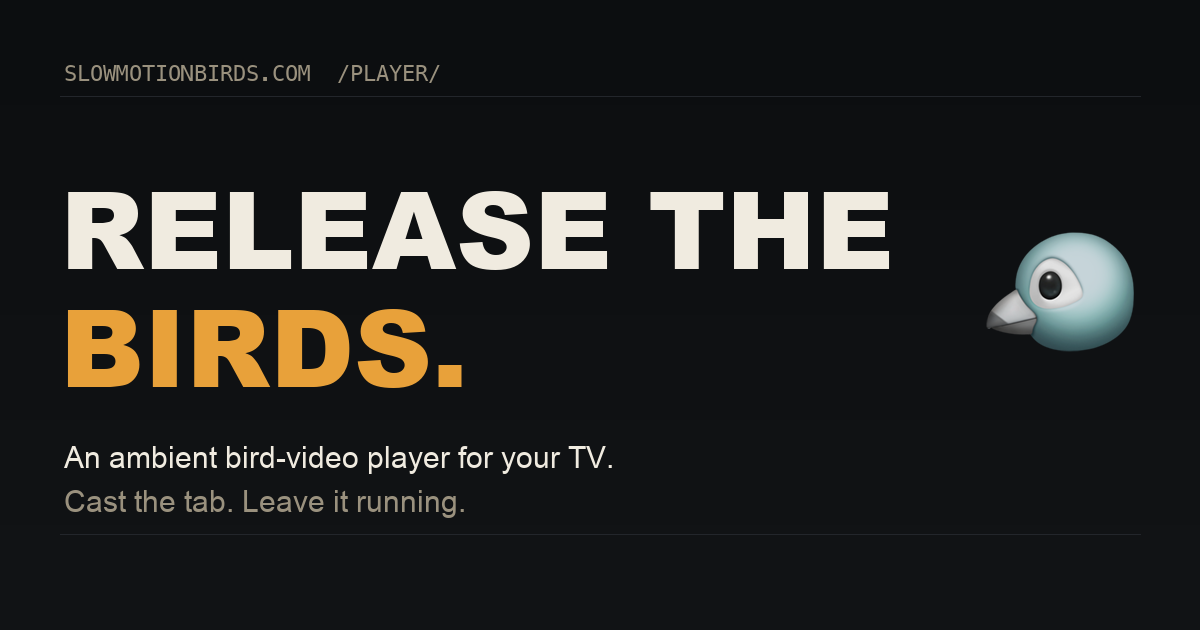
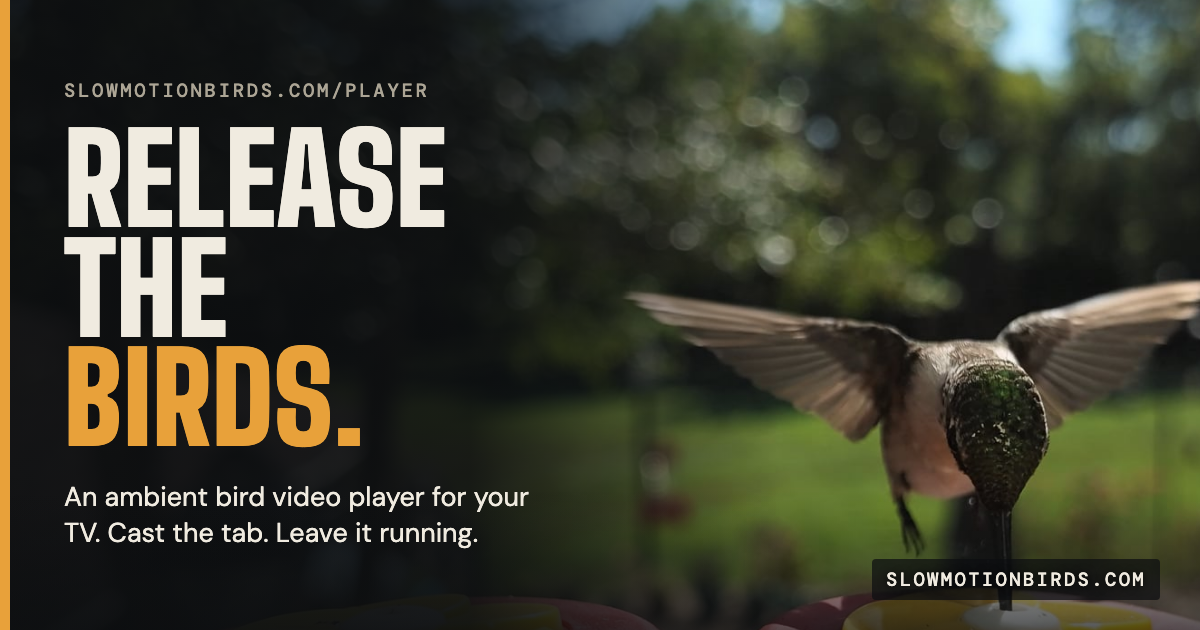
Link previews: a photo card per page, plus a Field Notes section on the homepage
Every page shared one text-only Field Notes card, homepage included. Each page now
unfurls into its own card built from a frame of the films (generator lives outside the
repo at Projects/Slow Motion Birds/og-cards/build_og.mjs). Adds og:url, image size/alt,
and twitter:image. The homepage gains a Field Notes section with those cards as tiles
and a button up top, a version stamp and a changelog (v1.1.0).

diff --git a/index.html b/index.html
@@ -7,9 +7,15 @@
 <meta name="description" content="Birds. Slowly. Watch.">
 <meta property="og:title" content="Slow Motion Birds">
 <meta property="og:description" content="Birds. Slowly. Watch.">
-<meta property="og:image" content="https://slowmotionbirds.com/field-notes-og.png">
+<meta property="og:image" content="https://slowmotionbirds.com/og.png">
+<meta property="og:image:type" content="image/png">
+<meta property="og:image:width" content="1200">
+<meta property="og:image:height" content="630">
+<meta property="og:image:alt" content="A ruby-throated hummingbird mid-hover at 240 frames a second, under the words Slow Motion Birds.">
+<meta property="og:url" content="https://slowmotionbirds.com/">
 <meta property="og:type" content="website">
 <meta name="twitter:card" content="summary_large_image">
+<meta name="twitter:image" content="https://slowmotionbirds.com/og.png">
 <link rel="preconnect" href="https://fonts.googleapis.com">
 <link rel="preconnect" href="https://fonts.gstatic.com" crossorigin>
 <link href="https://fonts.googleapis.com/css2?family=Big+Shoulders+Display:wght@700;900&family=DM+Sans:wght@300;400;500&family=DM+Mono:wght@400;500&display=swap" rel="stylesheet">
@@ -105,6 +111,21 @@ h1 .sun { color: var(--sun); }
 .footer-links { text-wrap: balance; }
 .footer-links a { display: inline-flex; align-items: center; justify-content: center; min-width: 44px; min-height: 44px; margin: 4px 0; }
 .footer-links a:hover { color: var(--sun); }
+/* ===== FIELD NOTES: the behind-the-footage pages, as photo cards (the same cards a pasted link unfurls into) ===== */
+.notes { max-width: 1300px; margin: 0 auto; padding: 40px 30px 10px; }
+.notes h2 { font-family: 'Big Shoulders Display', sans-serif; font-weight: 900; font-size: clamp(32px, 5vw, 56px); text-transform: uppercase; line-height: 0.9; }
+.notes h2 span { color: var(--sun); }
+.notes-intro { margin-top: 10px; font-size: 16px; color: var(--dust-text); max-width: 640px; }
+.notes-grid { margin-top: 22px; display: grid; grid-template-columns: repeat(2, 1fr); gap: 18px; }
+.note { display: block; border-radius: 4px; overflow: hidden; border: 1px solid var(--line); transition: border-color 0.2s, transform 0.2s; }
+.note img { display: block; width: 100%; height: auto; }
+.note:hover { border-color: var(--sun); transform: translateY(-2px); }
+@media (max-width: 700px) { .notes { padding: 30px 16px 10px; } .notes-grid { grid-template-columns: 1fr; gap: 14px; } }
+@media (prefers-reduced-motion: reduce) { .note:hover { transform: none; } }
+.stamp { margin-top: 10px; }
+.footer details { margin: 6px auto 0; max-width: 640px; text-align: left; text-transform: none; letter-spacing: 0; font-family: 'DM Sans', sans-serif; font-size: 14px; }
+.footer summary { cursor: pointer; text-align: center; font-family: 'DM Mono', monospace; font-size: 12px; letter-spacing: 0.1em; text-transform: uppercase; min-height: 44px; display: flex; align-items: center; justify-content: center; }
+.footer details p { margin-top: 6px; color: var(--dust-text); }
 @media (max-width: 560px) { .hero-content { padding: 0 18px 40px; } .scroll-cue { display: none; } .films { padding: 14px 16px 20px; } .hero-toggle { top: 14px; right: 14px; padding: 10px 13px; } .annot { letter-spacing: 0.08em; } .footer { padding: 30px 18px; } .footer-links { letter-spacing: 0.06em; } }
 @media (prefers-reduced-motion: reduce) { html { scroll-behavior: auto; } *, *::before, *::after { transition: none !important; animation: none !important; } }
 </style>
@@ -126,6 +147,7 @@ h1 .sun { color: var(--sun); }
     <p class="hero-sub">That's a ruby-throated hummingbird behind this text, shot at 240 frames a second so you can actually see the wings. There's a lot more below.</p>
     <div class="hero-cta">
       <a class="btn solid" href="#films">&#9660;&nbsp; Watch the films</a>
+      <a class="btn ghost" href="#field-notes">Field notes</a>
       <a class="btn ghost" href="https://youtube.com/playlist?list=PLtzLM6Y0VXAKxsWHarwkJHpomJK1OL-5q" target="_blank" rel="noopener">Full library on YouTube &nearr;</a>
     </div>
   </div>
@@ -180,6 +202,19 @@ h1 .sun { color: var(--sun); }
 
 </main>
 
+<!-- FIELD NOTES: the behind-the-footage pages. Tiles are the pages' own link preview cards
+     (card.jpg beside each og.png), generated by Projects/Slow Motion Birds/og-cards/build_og.mjs. -->
+<section class="notes" id="field-notes" aria-labelledby="field-notes-h">
+  <h2 id="field-notes-h">Field <span>notes.</span></h2>
+  <p class="notes-intro">How the footage gets made: the pipeline, the proof sheets, the grading ladder and the glass math.</p>
+  <div class="notes-grid">
+    <a class="note" href="/workflow/"><img src="/workflow/card.jpg" width="1200" height="630" loading="lazy" alt="The Workflow: from card dump to the daily 60 second clip, the whole pipeline."></a>
+    <a class="note" href="/contact-sheets/"><img src="/contact-sheets/card.jpg" width="1200" height="630" loading="lazy" alt="Contact Sheets: every footage session, one proof sheet each."></a>
+    <a class="note" href="/footage-levels/"><img src="/footage-levels/card.jpg" width="1200" height="630" loading="lazy" alt="Footage Levels: the 0 to 5 ladder every clip of footage gets graded on."></a>
+    <a class="note" href="/light-and-lens/"><img src="/light-and-lens/card.jpg" width="1200" height="630" loading="lazy" alt="Light and Lens calculator: depth of field, framing and exposure math for feeder footage."></a>
+  </div>
+</section>
+
 <footer class="footer">
   <div class="big">The birds refuse<br>to be <span>rushed.</span></div>
   <div class="footer-links">
@@ -190,6 +225,11 @@ h1 .sun { color: var(--sun); }
     &nbsp;&middot;&nbsp; <a href="/light-and-lens/">Light &amp; Lens Calculator</a>
     &nbsp;&middot;&nbsp; <a href="/player/">Player (beta)</a>
     &nbsp;&middot;&nbsp; slowmotionbirds.com &nbsp;&middot;&nbsp; &copy; 2026
+  <div class="stamp">v1.1.0 &middot; Updated Fri / 2026-09-25 / 3:01 PM CT</div>
+  <details><summary>Changelog</summary>
+    <p>v1.1.0 (2026-09-25, 3:01 PM): A Field Notes section under the films, with a button up top that jumps to it, so the workflow, contact sheets, footage levels and the light and lens calculator are no longer hiding in the footer. A pasted link to the site now unfurls into a photo card of the hummingbird instead of a text card, and every field notes page has its own.</p>
+    <p>v1.0.0: The homepage before it carried a version: the hummingbird hero and the five films.</p>
+  </details>
   <div style="margin-top:4px;font-size:12px"><a href="https://coltonland.com/privacy/" target="_blank" rel="noopener" style="display:inline-flex;align-items:center;min-height:44px;text-decoration:underline;text-underline-offset:3px">Privacy</a></div>
   </div>
 </footer>

diff --git a/contact-sheets/index.html b/contact-sheets/index.html
@@ -5,9 +5,15 @@
 <meta name="description" content="Every analyzed footage session, one visual proof sheet each: thumbnails, detected events, scores. The calibration record.">
 <meta property="og:title" content="Contact Sheets &middot; Slow Motion Birds">
 <meta property="og:description" content="Every analyzed footage session, one visual proof sheet each.">
-<meta property="og:image" content="https://slowmotionbirds.com/field-notes-og.png">
+<meta property="og:image" content="https://slowmotionbirds.com/contact-sheets/og.png">
+<meta property="og:image:type" content="image/png">
+<meta property="og:image:width" content="1200">
+<meta property="og:image:height" content="630">
+<meta property="og:image:alt" content="A grid of frames from the published contact sheets, under the words Contact Sheets.">
+<meta property="og:url" content="https://slowmotionbirds.com/contact-sheets/">
 <meta property="og:type" content="website">
 <meta name="twitter:card" content="summary_large_image">
+<meta name="twitter:image" content="https://slowmotionbirds.com/contact-sheets/og.png">
 <link rel="preconnect" href="https://fonts.googleapis.com">
 <link rel="preconnect" href="https://fonts.gstatic.com" crossorigin>
 <link href="https://fonts.googleapis.com/css2?family=Big+Shoulders+Display:wght@700;900&family=DM+Sans:wght@300;400;500&family=DM+Mono:wght@400;500&display=swap" rel="stylesheet">
@@ -44,11 +50,12 @@ details .in{padding:0 18px 16px}
   <div class="annot"><a href="/">&larr; slowmotionbirds.com</a> &nbsp;&middot;&nbsp; field notes</div>
   <h1>Contact<br><span class="sun">Sheets.</span></h1>
   <p class="lede">One visual proof sheet per analyzed footage session, named exactly by its archive folder: every clip's reference frame, every detected event with its peak-action thumbnail, scores and timecodes. This is the calibration record: reviewing these sheets over time is how the grading rules get corrected, refined, and taught what this yard calls interesting.</p>
-  <p class="stamp">v1.1.1 &middot; 4 sessions published &middot; Updated Fri / 2026-09-25 / 12:28 PM CT</p>
+  <p class="stamp">v1.1.2 &middot; 4 sessions published &middot; Updated Fri / 2026-09-25 / 3:00 PM CT</p>
   <a class='card' href='/contact-sheets/2026-08-10-north-wing-double-feeder/'><div class='nm'>2026 08 10 North Wing Double Feeder</div><div class='mt'>61 clips &middot; 395 events &middot; published 2026-08-11</div></a><a class='card' href='/contact-sheets/2024-12-31-overcast-tree-feeder/'><div class='nm'>2024 12 31 Overcast Tree Feeder</div><div class='mt'>33 clips &middot; 152 events &middot; published 2026-08-09</div></a><a class='card' href='/contact-sheets/2024-12-30-afternoon-window-double-feeder-batch-2/'><div class='nm'>2024 12 30 Afternoon Window Double Feeder Batch 2</div><div class='mt'>83 clips &middot; 72 events &middot; published 2026-08-09</div></a><a class='card' href='/contact-sheets/2024-12-30-afternoon-window-double-feeder/'><div class='nm'>2024 12 30 Afternoon Window Double Feeder</div><div class='mt'>55 clips &middot; 69 events &middot; published 2026-08-09</div></a>
   <details>
     <summary>Changelog</summary>
     <div class="in">
+      <p class="muted">v1.1.2 (2026-09-25): A pasted link to this page now unfurls into its own photo card, a grid of real frames from these sheets, instead of the old text card. Nothing on the page itself changed.</p>
       <p class="muted">v1.1.1 (2026-09-25): The footer gains a Privacy link to the plain-language notice at coltonland.com/privacy, which says what the visitor counter on this page records. Nothing else changed.</p>
       <p class="muted">v1.1.0 (2026-09-20): Legibility pass, styling only. No session, count or date changed. Nothing on the page is under 12px now and paragraphs are 16px. The grey used for labels and small print moved to a lighter sibling that measures 7.9 to 1 on the page and 7.5 to 1 on the cards (it was 6.2 and 5.9 against a floor of 7). The back link and footer links are full 44px touch targets, and keyboard focus shows a visible ring. The page also shows its version and this changelog for the first time.</p>
       <p class="muted">v1.0.0 (2026-08-09): First edition of the contact sheets index.</p>

diff --git a/privacy/index.html b/privacy/index.html
@@ -7,9 +7,15 @@
 <meta name="description" content="The Slow Motion Birds app for Apple TV collects nothing. No accounts, no analytics, no network.">
 <meta property="og:title" content="Privacy &middot; Slow Motion Birds">
 <meta property="og:description" content="The Slow Motion Birds app for Apple TV collects nothing. No accounts, no analytics, no network.">
-<meta property="og:image" content="https://slowmotionbirds.com/field-notes-og.png">
+<meta property="og:image" content="https://slowmotionbirds.com/privacy/og.png">
+<meta property="og:image:type" content="image/png">
+<meta property="og:image:width" content="1200">
+<meta property="og:image:height" content="630">
+<meta property="og:image:alt" content="A barred owl in a snowy tree, under the words We collect nothing.">
+<meta property="og:url" content="https://slowmotionbirds.com/privacy/">
 <meta property="og:type" content="website">
 <meta name="twitter:card" content="summary_large_image">
+<meta name="twitter:image" content="https://slowmotionbirds.com/privacy/og.png">
 <link rel="preconnect" href="https://fonts.googleapis.com">
 <link rel="preconnect" href="https://fonts.gstatic.com" crossorigin>
 <link href="https://fonts.googleapis.com/css2?family=Big+Shoulders+Display:wght@700;900&family=DM+Sans:wght@300;400;500&family=DM+Mono:wght@400;500&display=swap" rel="stylesheet">
@@ -60,7 +66,7 @@ details .in { padding-top:4px; }
   <p class="annot"><a href="/">&larr; slowmotionbirds.com</a></p>
   <h1>Privacy<span class="sun">.</span></h1>
   <p class="lede">The Slow Motion Birds app for Apple TV does not collect any data about you. There is nothing to opt out of, because there is nothing being gathered.</p>
-  <p class="stamp">v1.2.1 &middot; Updated Sun / 2026-09-20 / 9:22 PM CT</p>
+  <p class="stamp">v1.2.2 &middot; Updated Fri / 2026-09-25 / 3:01 PM CT</p>
 
   <div class="panel">
     <p>No accounts. No sign in. No analytics. No advertising and no advertising identifiers. No tracking, and no data shared with anyone. The app makes no network requests at all: every clip is bundled inside the app itself, so once it is installed it works with the Apple TV disconnected from the internet.</p>
@@ -94,6 +100,7 @@ details .in { padding-top:4px; }
   <details>
     <summary>Changelog</summary>
     <div class="in">
+      <p class="muted">v1.2.2 (2026-09-25, 3:01 PM): A pasted link to this page now unfurls into its own photo card, built from a frame of the films, instead of the shared text card. Not one word of the statement above changed.</p>
       <p class="muted">v1.2.1 (2026-09-20, 9:22 PM): Legibility pass, styling only. Not one word of the statement above changed, and the visitor counter is still off this page. Nothing on the page is under 12px now and paragraphs are 16px. The grey used for small print moved to a lighter sibling that measures 7.9 to 1 on the page background (it was 6.2 against a floor of 7). Links inside sentences are underlined so color is not the only cue, the back link, the email address, the Changelog toggle and the footer links are full 44px touch targets, and keyboard focus shows a visible ring.</p>
       <p class="muted">v1.2.0 (2026-09-19, 10:38 PM): What stays on your Apple TV now lists three things instead of one: the shuffle setting, the clips you starred as favorites, and whether you chose to play favorites only. The app has kept favorites on the device since that feature was added, which was before the app went to the App Store, and this page had not caught up. It now matches the privacy policy text on the app's App Store listing. Nothing about collection changed: the app still collects nothing and makes no network requests, and all three settings stay on the device. Also, the link to coltonland.com now opens in a new tab.</p>
       <p class="muted">v1.1.0 (2026-09-19, 9:51 AM): Added the About this website section, kept separate from the app's statement on purpose. The rest of slowmotionbirds.com gained a cookie-free visitor counter on 2026-09-18; this page still does not carry it, and the section says both things and links to the full website notice. Nothing the page says about the app changed: no collection, no network, one local preference.</p>

diff --git a/light-and-lens/index.html b/light-and-lens/index.html
@@ -7,9 +7,15 @@
 <meta name="description" content="The setup calculator for slow motion bird footage: depth of field vs feeder size, framing, and exposure at ISO 12800, for the exact lenses and distances this yard runs.">
 <meta property="og:title" content="Light &amp; Lens Calculator &middot; Slow Motion Birds">
 <meta property="og:description" content="Depth of field vs feeder size, framing, and exposure math for slow motion bird footage.">
-<meta property="og:image" content="https://slowmotionbirds.com/field-notes-og.png">
+<meta property="og:image" content="https://slowmotionbirds.com/light-and-lens/og.png">
+<meta property="og:image:type" content="image/png">
+<meta property="og:image:width" content="1200">
+<meta property="og:image:height" content="630">
+<meta property="og:image:alt" content="A cardinal on a snow-capped feeder, under the words Light and Lens.">
+<meta property="og:url" content="https://slowmotionbirds.com/light-and-lens/">
 <meta property="og:type" content="website">
 <meta name="twitter:card" content="summary_large_image">
+<meta name="twitter:image" content="https://slowmotionbirds.com/light-and-lens/og.png">
 <link rel="preconnect" href="https://fonts.googleapis.com">
 <link rel="preconnect" href="https://fonts.gstatic.com" crossorigin>
 <link href="https://fonts.googleapis.com/css2?family=Big+Shoulders+Display:wght@700;900&family=DM+Sans:wght@300;400;500&family=DM+Mono:wght@400;500&display=swap" rel="stylesheet">
@@ -78,7 +84,7 @@ details .in { padding: 0 18px 16px; }
   <div class="annot"><a href="/">&larr; slowmotionbirds.com</a> &nbsp;&middot;&nbsp; field notes</div>
   <h1>Light &amp;<br><span class="sun">Lens.</span></h1>
   <p class="lede">The setup calculator for this yard: one Sony a7S III at its 12,800 second base ISO, three lenses, two shooting positions, several feeders. Pick the rig; it answers the three questions that decide whether the footage is sharp: is the whole feeder inside the focus zone, how big is the bird in frame, and what will the light let you get away with.</p>
-  <p class="stamp">v1.0.3 &middot; Updated Sun / 2026-09-20 / 9:22 PM CT &middot; all glass math uses full-frame CoC 0.030mm</p>
+  <p class="stamp">v1.0.4 &middot; Updated Fri / 2026-09-25 / 3:01 PM CT &middot; all glass math uses full-frame CoC 0.030mm</p>
 
   <div class="cols">
     <div class="panel">
@@ -153,6 +159,7 @@ details .in { padding: 0 18px 16px; }
   <details>
     <summary>Changelog</summary>
     <div class="in">
+      <p class="muted">v1.0.4 (2026-09-25, 3:01 PM): A pasted link to this page now unfurls into its own photo card, built from a frame of the films, instead of the shared text card. Nothing on the page itself changed.</p>
       <p class="muted">v1.0.3 (2026-09-20, 9:22 PM): Legibility pass, styling only. The calculator and its math are unchanged and no words on the page changed. Nothing is under 12px now (labels and table headings were 9.5 and 10px), paragraphs are 16px, and every select and number box is 16px type in a 44px tall box with a border that measures 3.3 to 1, where the old hairline was 1.2 and the box edges could not be seen. The grey used for labels and small print moved to a lighter sibling that measures 7.9 to 1 on the page and 7.5 to 1 on the panels (it was 6.2 and 5.9 against a floor of 7). The red chip got a deeper red behind its words: 5.1 to 1, where it was 3.7. The back link and footer links are full 44px touch targets and keyboard focus shows a visible ring.</p>
       <p class="muted">v1.0.2 (2026-09-19, 9:52 AM): A quiet Privacy link in the footer, pointing at the plain-language notice for this website at coltonland.com/privacy (what the visitor counter counts, what is never done, how to reach Colton). The calculator and its math are unchanged.</p>
       <p class="muted">v1.0.1 (2026-09-18, 5:29 PM): Added the site's visitor counter (Cloudflare Web Analytics: no cookies, counts visits, not people). The calculator and its math are unchanged.</p>

diff --git a/workflow/index.html b/workflow/index.html
@@ -7,9 +7,15 @@
 <meta name="description" content="The full pipeline behind the footage, current state and future state: from card dump to the daily 60-second clip. Versioned, so nothing gets lost.">
 <meta property="og:title" content="The Workflow &middot; Slow Motion Birds">
 <meta property="og:description" content="From card dump to the daily 60-second clip: the whole pipeline, current state and future state.">
-<meta property="og:image" content="https://slowmotionbirds.com/field-notes-og.png">
+<meta property="og:image" content="https://slowmotionbirds.com/workflow/og.png">
+<meta property="og:image:type" content="image/png">
+<meta property="og:image:width" content="1200">
+<meta property="og:image:height" content="630">
+<meta property="og:image:alt" content="House finches squabbling on a platform feeder, under the words The Workflow.">
+<meta property="og:url" content="https://slowmotionbirds.com/workflow/">
 <meta property="og:type" content="website">
 <meta name="twitter:card" content="summary_large_image">
+<meta name="twitter:image" content="https://slowmotionbirds.com/workflow/og.png">
 <link rel="preconnect" href="https://fonts.googleapis.com">
 <link rel="preconnect" href="https://fonts.gstatic.com" crossorigin>
 <link href="https://fonts.googleapis.com/css2?family=Big+Shoulders+Display:wght@700;900&family=DM+Sans:wght@300;400;500&family=DM+Mono:wght@400;500&display=swap" rel="stylesheet">
@@ -71,7 +77,7 @@ details .in { padding: 0 18px 16px; }
   <div class="annot"><a href="/">&larr; slowmotionbirds.com</a> &nbsp;&middot;&nbsp; field notes</div>
   <h1>The<br><span class="sun">Workflow.</span></h1>
   <p class="lede">Everything between pressing record and a finished film is becoming a pipeline. This page is its paper trail: every stage, what is real today versus where it ends up, updated and versioned every time something changes. If anything ever breaks, or the thread ever gets lost, this page is the recovery map.</p>
-  <p class="stamp">v1.3.3 &middot; Updated Sun / 2026-09-20 / 9:22 PM CT</p>
+  <p class="stamp">v1.3.4 &middot; Updated Fri / 2026-09-25 / 3:01 PM CT</p>
 
   <h2>The loop, end to end</h2>
   <div class="legend">
@@ -158,6 +164,7 @@ details .in { padding: 0 18px 16px; }
   <details>
     <summary>Changelog</summary>
     <div class="in">
+      <p class="muted">v1.3.4 (2026-09-25, 3:01 PM): A pasted link to this page now unfurls into its own photo card, built from a frame of the films, instead of the shared text card. Nothing on the page itself changed.</p>
       <p class="muted">v1.3.3 (2026-09-20, 9:22 PM): Legibility pass, styling only. No stage of the workflow changed and no words on the page changed. Nothing is under 12px now, paragraphs and the text inside each stage card are 16px, and the grey used for labels, the Future lines and this changelog moved to a lighter sibling that measures 7.9 to 1 on the page and 7.5 to 1 on the cards (it was 6.2 and 5.9 against a floor of 7). Links inside sentences are underlined so color is not the only cue, the back link and footer links are full 44px touch targets, keyboard focus shows a visible ring, and smooth scrolling steps aside for anyone who asks their device for reduced motion.</p>
       <p class="muted">v1.3.2 (2026-09-19, 9:52 AM): A quiet Privacy link in the footer, pointing at the plain-language notice for this website at coltonland.com/privacy (what the visitor counter counts, what is never done, how to reach Colton). No stage of the workflow changed.</p>
       <p class="muted">v1.3.1 (2026-09-18, 5:29 PM): Site plumbing, not pipeline: every page of slowmotionbirds.com except the app's privacy page now carries a visitor counter (Cloudflare Web Analytics: no cookies, counts visits, not people). No stage of the workflow changed.</p>

diff --git a/footage-levels/index.html b/footage-levels/index.html
@@ -7,9 +7,15 @@
 <meta name="description" content="The 0-5 grading ladder every clip of slow motion bird footage gets sorted into, from dead air to the daily banger.">
 <meta property="og:title" content="Footage Levels &middot; Slow Motion Birds">
 <meta property="og:description" content="The 0-5 grading ladder every clip of slow motion bird footage gets sorted into.">
-<meta property="og:image" content="https://slowmotionbirds.com/field-notes-og.png">
+<meta property="og:image" content="https://slowmotionbirds.com/footage-levels/og.png">
+<meta property="og:image:type" content="image/png">
+<meta property="og:image:width" content="1200">
+<meta property="og:image:height" content="630">
+<meta property="og:image:alt" content="A cardinal flaring its wings beside an eastern bluebird, under the words Footage Levels.">
+<meta property="og:url" content="https://slowmotionbirds.com/footage-levels/">
 <meta property="og:type" content="website">
 <meta name="twitter:card" content="summary_large_image">
+<meta name="twitter:image" content="https://slowmotionbirds.com/footage-levels/og.png">
 <link rel="preconnect" href="https://fonts.googleapis.com">
 <link rel="preconnect" href="https://fonts.gstatic.com" crossorigin>
 <link href="https://fonts.googleapis.com/css2?family=Big+Shoulders+Display:wght@700;900&family=DM+Sans:wght@300;400;500&family=DM+Mono:wght@400;500&display=swap" rel="stylesheet">
@@ -61,7 +67,7 @@ details .in { padding: 0 18px 16px; }
   <div class="annot"><a href="/">&larr; slowmotionbirds.com</a> &nbsp;&middot;&nbsp; field notes</div>
   <h1>The Footage<br><span class="sun">Levels.</span></h1>
   <p class="lede">Every stretch of slow motion bird footage gets graded 0 through 5. The grade decides where it goes: the daily clip, the films, the ambient mixes, or the archive. An automated pass assigns the first grade from how much is actually happening in frame; the final call is always human, and every human correction teaches the system this yard's version of interesting.</p>
-  <p class="stamp">v1.0.3 &middot; Updated Sun / 2026-09-20 / 9:22 PM CT</p>
+  <p class="stamp">v1.0.4 &middot; Updated Fri / 2026-09-25 / 3:01 PM CT</p>
 
   <div style="margin-top:36px;">
     <div class="level l5">
@@ -122,6 +128,7 @@ details .in { padding: 0 18px 16px; }
   <details>
     <summary>Changelog</summary>
     <div class="in">
+      <p class="muted">v1.0.4 (2026-09-25, 3:01 PM): A pasted link to this page now unfurls into its own photo card, built from a frame of the films, instead of the shared text card. Nothing on the page itself changed.</p>
       <p class="muted">v1.0.3 (2026-09-20, 9:22 PM): Legibility pass, styling only. Nothing about the levels changed and no words on the page changed. Nothing is under 12px now (the word under each level number was 9px), paragraphs and the text inside each level card are 16px, and the grey used for labels, the two lowest level numbers and this changelog moved to a lighter sibling that measures 7.9 to 1 on the page and 7.5 to 1 on the cards (it was 6.2 and 5.9 against a floor of 7). The back link and footer links are full 44px touch targets, keyboard focus shows a visible ring, and smooth scrolling steps aside for anyone who asks their device for reduced motion.</p>
       <p class="muted">v1.0.2 (2026-09-19, 9:52 AM): A quiet Privacy link in the footer, pointing at the plain-language notice for this website at coltonland.com/privacy (what the visitor counter counts, what is never done, how to reach Colton). Nothing about the levels changed.</p>
       <p class="muted">v1.0.1 (2026-09-18, 5:29 PM): Added the site's visitor counter (Cloudflare Web Analytics: no cookies, counts visits, not people). Nothing on the page itself changed.</p>
